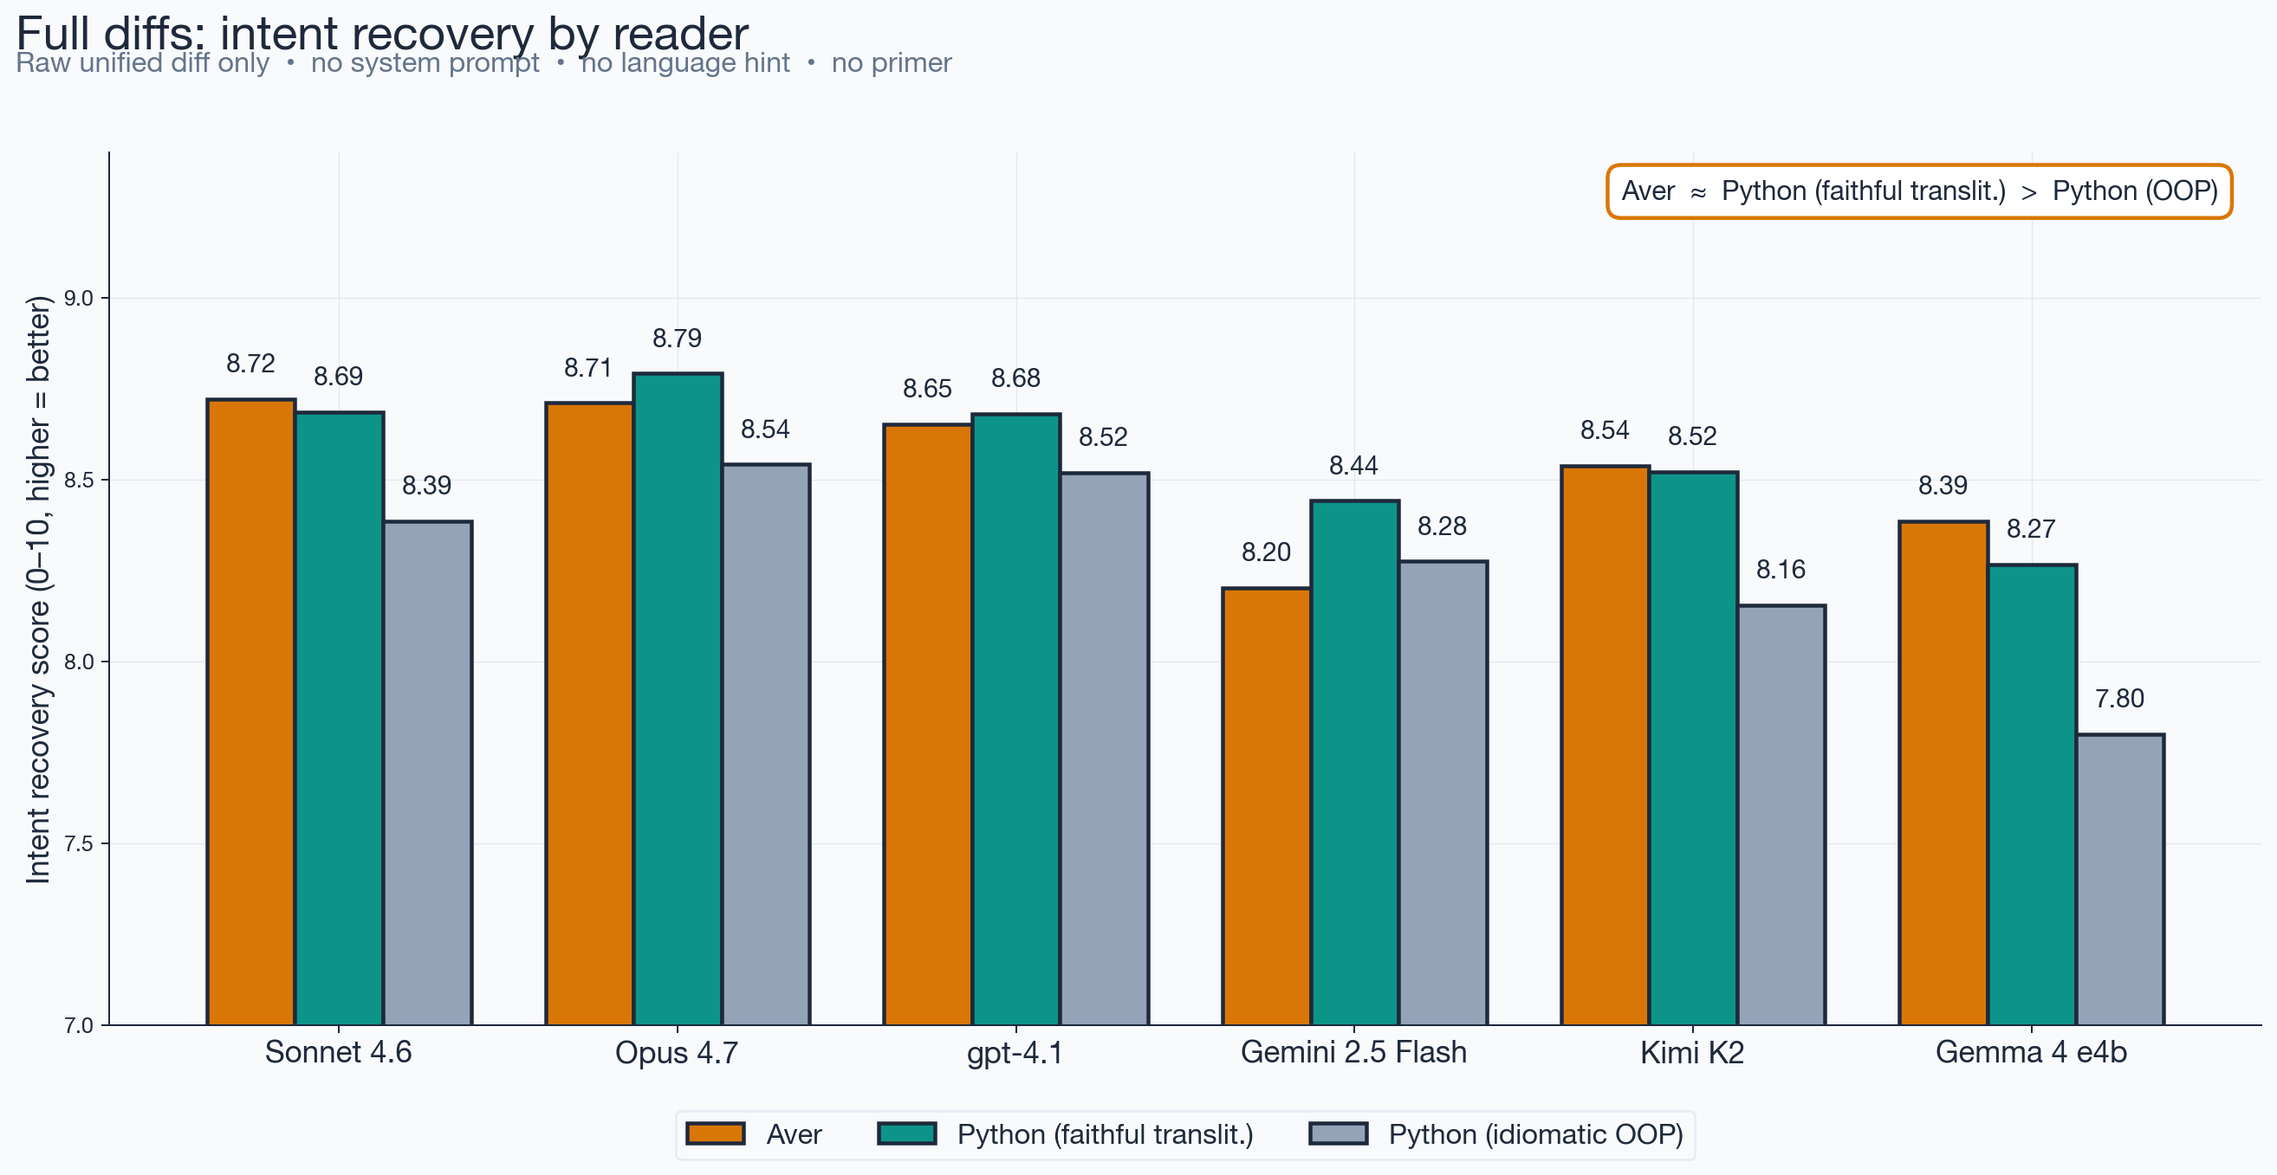
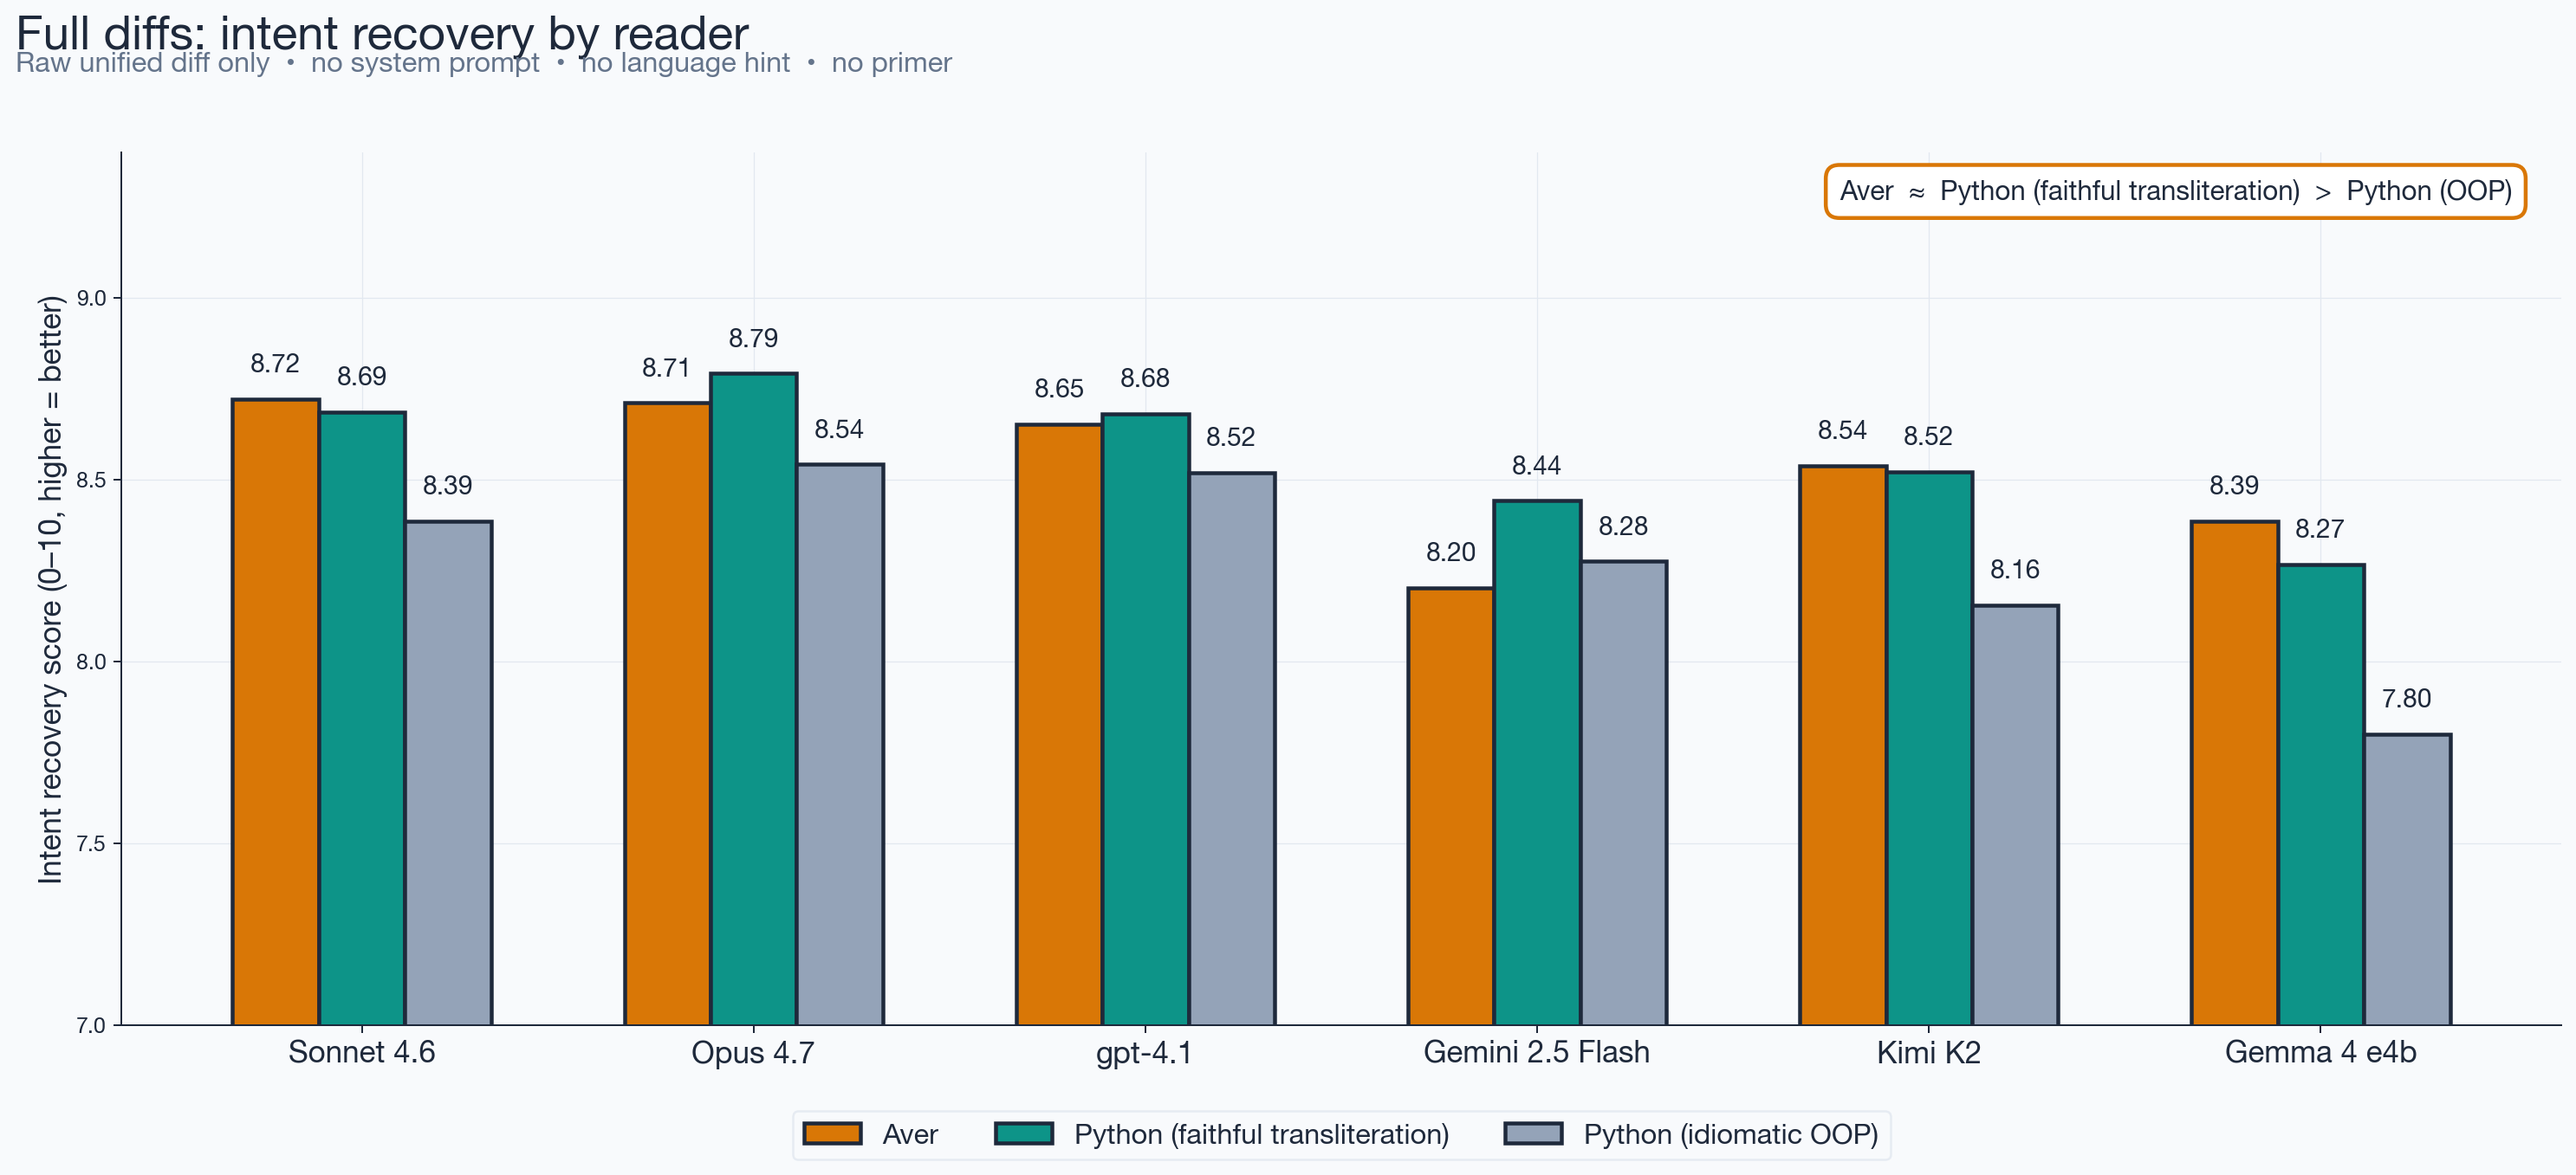
social chart: wider inter-group spacing + full 'transliteration' label
User feedback: bars felt crammed at 0.26 bar-width (inter-group gap 0.22),
and abbreviated 'translit.' looked awkward when there was room for the full
word.

- bar_w 0.26 → 0.22 (inter-group gap 0.22 → 0.34, >50% more)
- figsize (15, 8) → (17, 8)
- legend + callout: 'Python (faithful translit.)' → 'Python (faithful transliteration)'

diff --git a/scripts/plot_social.py b/scripts/plot_social.py
@@ -35,9 +35,9 @@ READERS = [
 ]
 
 SERIES = [
-    ("aver",             "Aver",                       AMBER),
-    ("python_from_aver", "Python (faithful translit.)", TEAL),
-    ("python_oop",       "Python (idiomatic OOP)",     GRAY),
+    ("aver",             "Aver",                           AMBER),
+    ("python_from_aver", "Python (faithful transliteration)", TEAL),
+    ("python_oop",       "Python (idiomatic OOP)",         GRAY),
 ]
 
 mpl.rcParams.update({
@@ -88,9 +88,11 @@ def build_plot(out_path: Path, *, with_ci: bool) -> None:
     data = {name: load_full_scores(path) for name, path in READERS}
     n_readers = len(READERS)
 
-    fig, ax = plt.subplots(figsize=(15, 8))
+    fig, ax = plt.subplots(figsize=(17, 8))
+    # Wider spacing between reader groups: each group centered on an integer x,
+    # inter-group gap = 1.0 - 3 * bar_w (so 1 - 0.66 = 0.34, >2× the old gap).
     x_positions = list(range(n_readers))
-    bar_w = 0.26
+    bar_w = 0.22
 
     for i, (lang, label, color) in enumerate(SERIES):
         values = [mean(data[reader][lang]) for reader, _ in READERS]
@@ -150,7 +152,7 @@ def build_plot(out_path: Path, *, with_ci: bool) -> None:
     # Light annotation: Aver tracks Python-transliteration, above idiomatic OOP
     ax.text(
         0.98, 0.97,
-        "Aver  ≈  Python (faithful translit.)  >  Python (OOP)",
+        "Aver  ≈  Python (faithful transliteration)  >  Python (OOP)",
         transform=ax.transAxes,
         fontsize=12.5, fontweight="bold", color=SLATE,
         ha="right", va="top",
